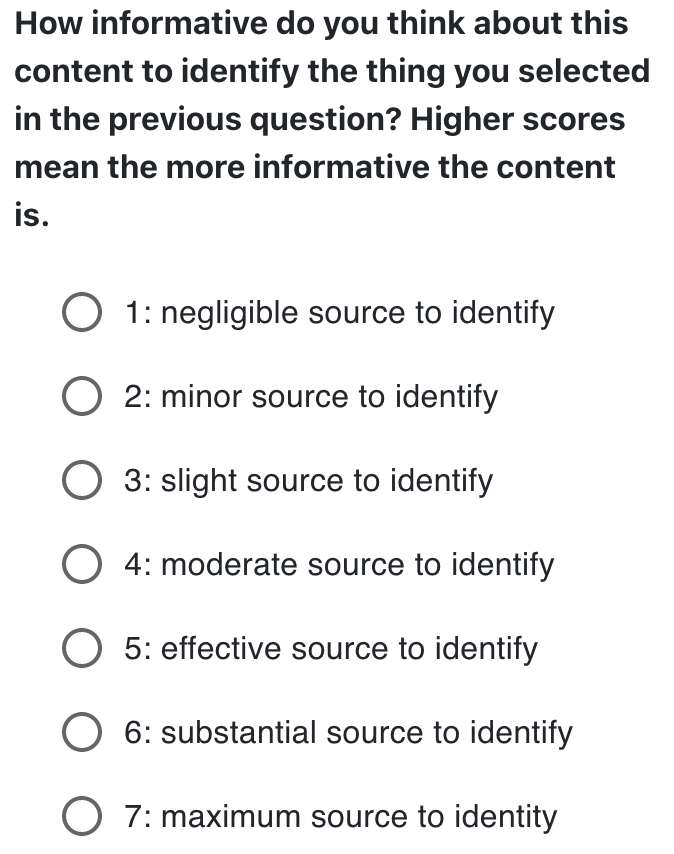
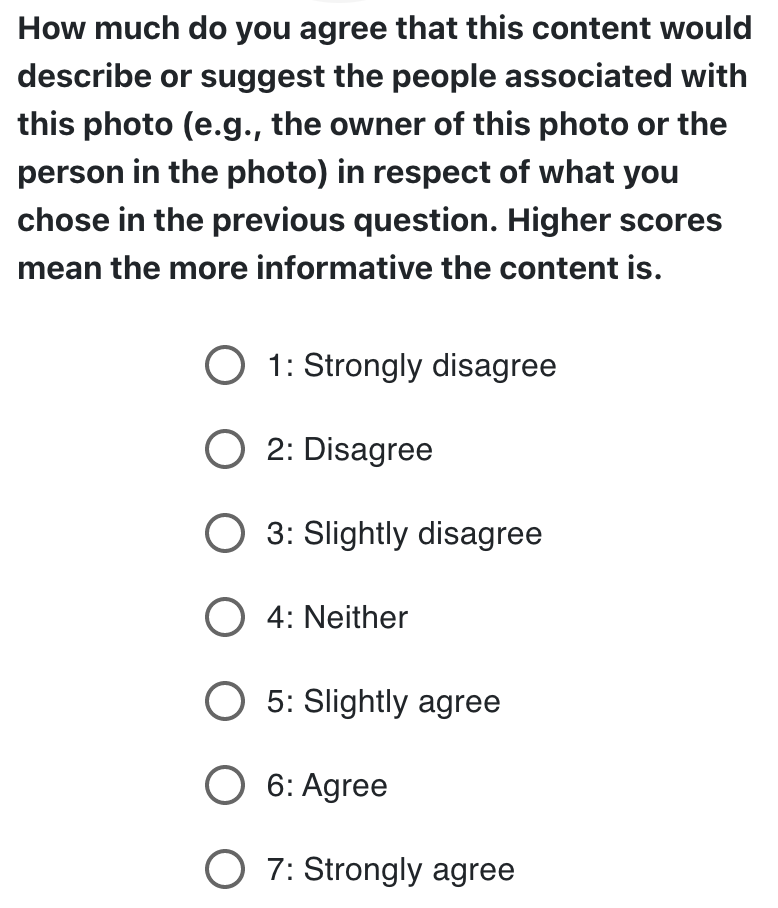
new q2 design && find a lot of difference with wrong annotations

diff --git a/src/manualAnnotation.js b/src/manualAnnotation.js
@@ -21,20 +21,20 @@ class ManualAnnotationCard extends Component{
             this.starArray.push(i + 1);
         this.state = {mainStyle: {position: 'relative', display: 'block'}, bboxs: [], informativenessValue: 0,
         curQuestion: 0};
-        this.intensity = { 'en': {1: '1: negligible source to identify',
-            2: '2: minor source to identify',
-            3: '3: slight source to identify',
-            4: '4: moderate source to identify',
-            5: '5: effective source to identify ',
-            6: '6: substantial source to identify',
-            7: '7: maximum source to identity'},
-            'jp':{1: '1: ほとんど役に立たない情報源です',
-            2: '2: 軽微な情報源です',
-            3: '3: やや不足な情報源です',
-            4: '4: 中程度の情報源です',
-            5: '5: 有効な情報源です',
-            6: '6: 多大な情報源です',
-            7: '7: 最大な情報源です'}
+        this.intensity = { 'en': {1: '1: Strongly disagree',
+            2: '2: Disagree',
+            3: '3: Slightly disagree',
+            4: '4: Neither',
+            5: '5: Slightly agree',
+            6: '6: Agree',
+            7: '7: Strongly agree'},
+            'jp':{1: '1: 強く思わない',
+            2: '2: そう思わない',
+            3: '3: ややそう思わない',
+            4: '4: どちらともいえない',
+            5: '5: 少しそう思う',
+            6: '6: そう思う',
+            7: '7: 強くそう思う'}
         };
         this.marks = { 'en':[
             {value: 1,label: 'slightly'},
@@ -57,9 +57,9 @@ class ManualAnnotationCard extends Component{
         'contentPlaceHolder': {'en': 'Please input here.', 'jp': 'ここにコンテンツを記入してください。'},
         'reasonQuestion': {'en': 'Assuming you want to seek the privacy of the photo owner, what kind of information can this content tell  (please select all that apply)?',
         'jp': '写真の所有者のプライバシーを得ようとする場合、このコンテンツからはどのような情報を読み取れますか(該当する選択肢をすべてお選びください)？'},
-        'informativeQuestion': {'en': 'How informative do you think about this content to identify the thing you selected in the previous question?\
+        'informativeQuestion': {'en': 'How much do you agree that this content would describe or suggest the people associated with this photo (e.g., the owner of this photo or the person in the photo) in respect of what you chose in the previous question.\
         Higher scores mean the more informative the content is.', 
-        'jp': '前問で選択したものを特定するために、このコンテンツはどの程度情報量があると思いますか？\
+        'jp': '前問で選択した情報種類について、この写真に関連する人物（例えば、この写真の所有者や写真の中の人物）を描写または暗示することに、どの程度同意されますか？\
         スコアが高いほど、情報量が多いことを意味します。'},
         'placeHolder': {'en': 'Please input here.', 'jp': 'ここに理由を記入してください。'},
         'selectMultiplePlaceHolder': {'en': 'Please select options', 'jp': '選択肢をお選びください'},

diff --git a/src/defaultAnnotation.js b/src/defaultAnnotation.js
@@ -54,20 +54,20 @@ class DefaultAnnotationCard extends Component{
             {value: 6,label: ''},
             {value: 7,label: '情報量が多い'}]
         };*/
-        this.intensity = { 'en': {1: '1: negligible source to identify',
-            2: '2: minor source to identify',
-            3: '3: slight source to identify',
-            4: '4: moderate source to identify',
-            5: '5: effective source to identify ',
-            6: '6: substantial source to identify',
-            7: '7: maximum source to identity'},
-            'jp':{1: '1: ほとんど役に立たない情報源です',
-            2: '2: 軽微な情報源です',
-            3: '3: やや不足な情報源です',
-            4: '4: 中程度の情報源です',
-            5: '5: 有効な情報源です',
-            6: '6: 多大な情報源です',
-            7: '7: 最大な情報源です'}
+        this.intensity = { 'en': {1: '1: Strongly disagree',
+            2: '2: Disagree',
+            3: '3: Slightly disagree',
+            4: '4: Neither',
+            5: '5: Slightly agree',
+            6: '6: Agree',
+            7: '7: Strongly agree'},
+            'jp':{1: '1: 強く思わない',
+            2: '2: そう思わない',
+            3: '3: ややそう思わない',
+            4: '4: どちらともいえない',
+            5: '5: 少しそう思う',
+            6: '6: そう思う',
+            7: '7: 強くそう思う'}
         };
         this.marks = { 'en':[
             {value: 1,label: 'slightly'},
@@ -88,9 +88,9 @@ class DefaultAnnotationCard extends Component{
         this.text = {'title': {'en': 'Annotation Box', 'jp': 'アノテーションボックス'},
         'reasonQuestion': {'en': 'Assuming you want to seek the privacy of the photo owner, what kind of information can this content tell (please select all that apply)?',
         'jp': '写真の所有者のプライバシーを得ようとする場合、このコンテンツからはどのような情報を読み取れますか(該当する選択肢をすべてお選びください)？'},
-        'informativeQuestion': {'en': 'How informative do you think about this content to identify the thing you selected in the previous question?\
+        'informativeQuestion': {'en': 'How much do you agree that this content would describe or suggest the people associated with this photo (e.g., the owner of this photo or the person in the photo) in respect of what you chose in the previous question.\
         Higher scores mean the more informative the content is.', 
-        'jp': '前問で選択したものを特定するために、このコンテンツはどの程度情報量があると思いますか？\
+        'jp': '前問で選択した情報種類について、この写真に関連する人物（例えば、この写真の所有者や写真の中の人物）を描写または暗示することに、どの程度同意されますか？\
         スコアが高いほど、情報量が多いことを意味します。'},
         'placeHolder': {'en': 'Please input here.', 'jp': 'ここに理由を記入してください。'},
         'selectMultiplePlaceHolder': {'en': 'Please select options', 'jp': '選択肢をお選びください'},

diff --git a/dataset/find_difference.py b/dataset/find_difference.py
@@ -1,0 +1,15 @@
+import os
+
+if __name__ == '__main__':
+    wrong_folder = './new annotations(wrong one)/annotations/'
+    true_folder = './new annotations/annotations/'
+    annotations = os.listdir(true_folder)
+    cnt = 0
+    for annotation in annotations:
+        with open (os.path.join(wrong_folder, annotation)) as wrong_one, \
+            open(os.path.join(true_folder, annotation)) as true_one:
+            true = true_one.read()
+            wrong = wrong_one.read()
+            if true != wrong:
+                print(annotation)
+                cnt += 1
